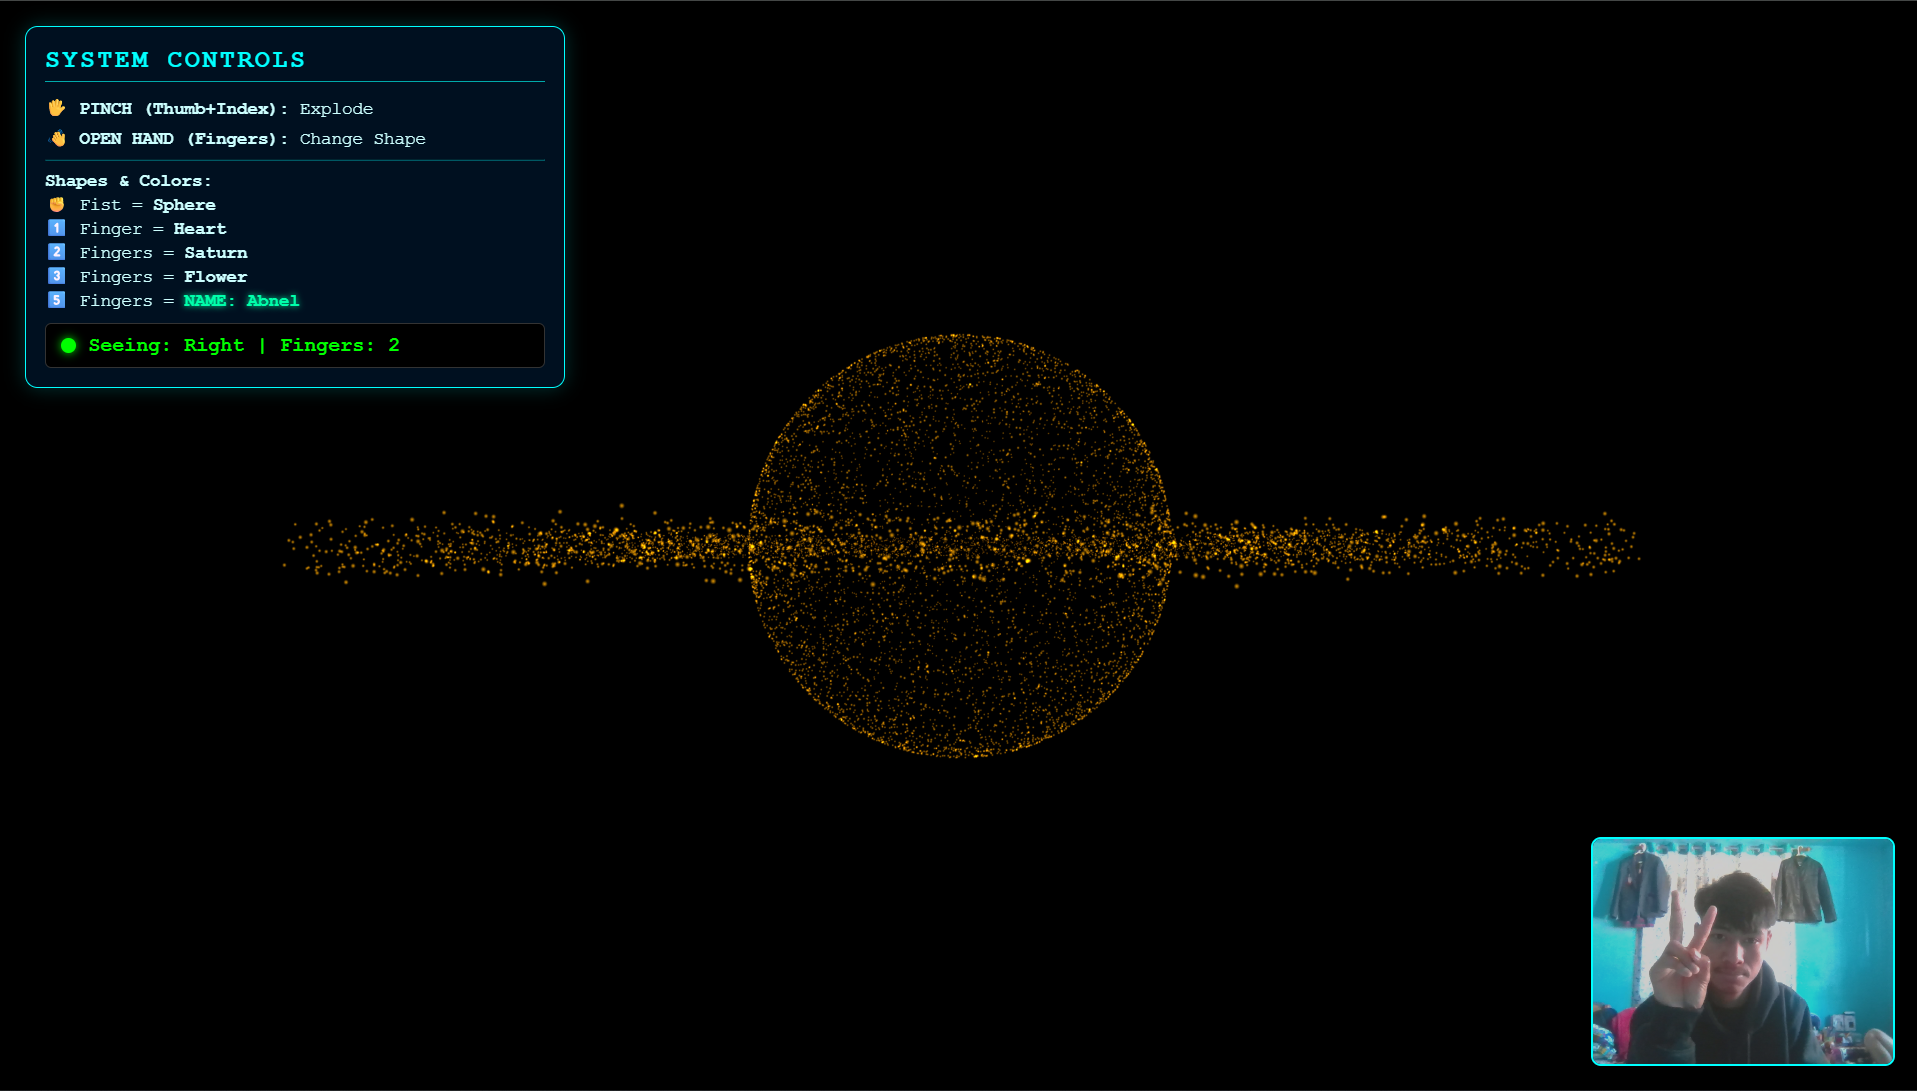
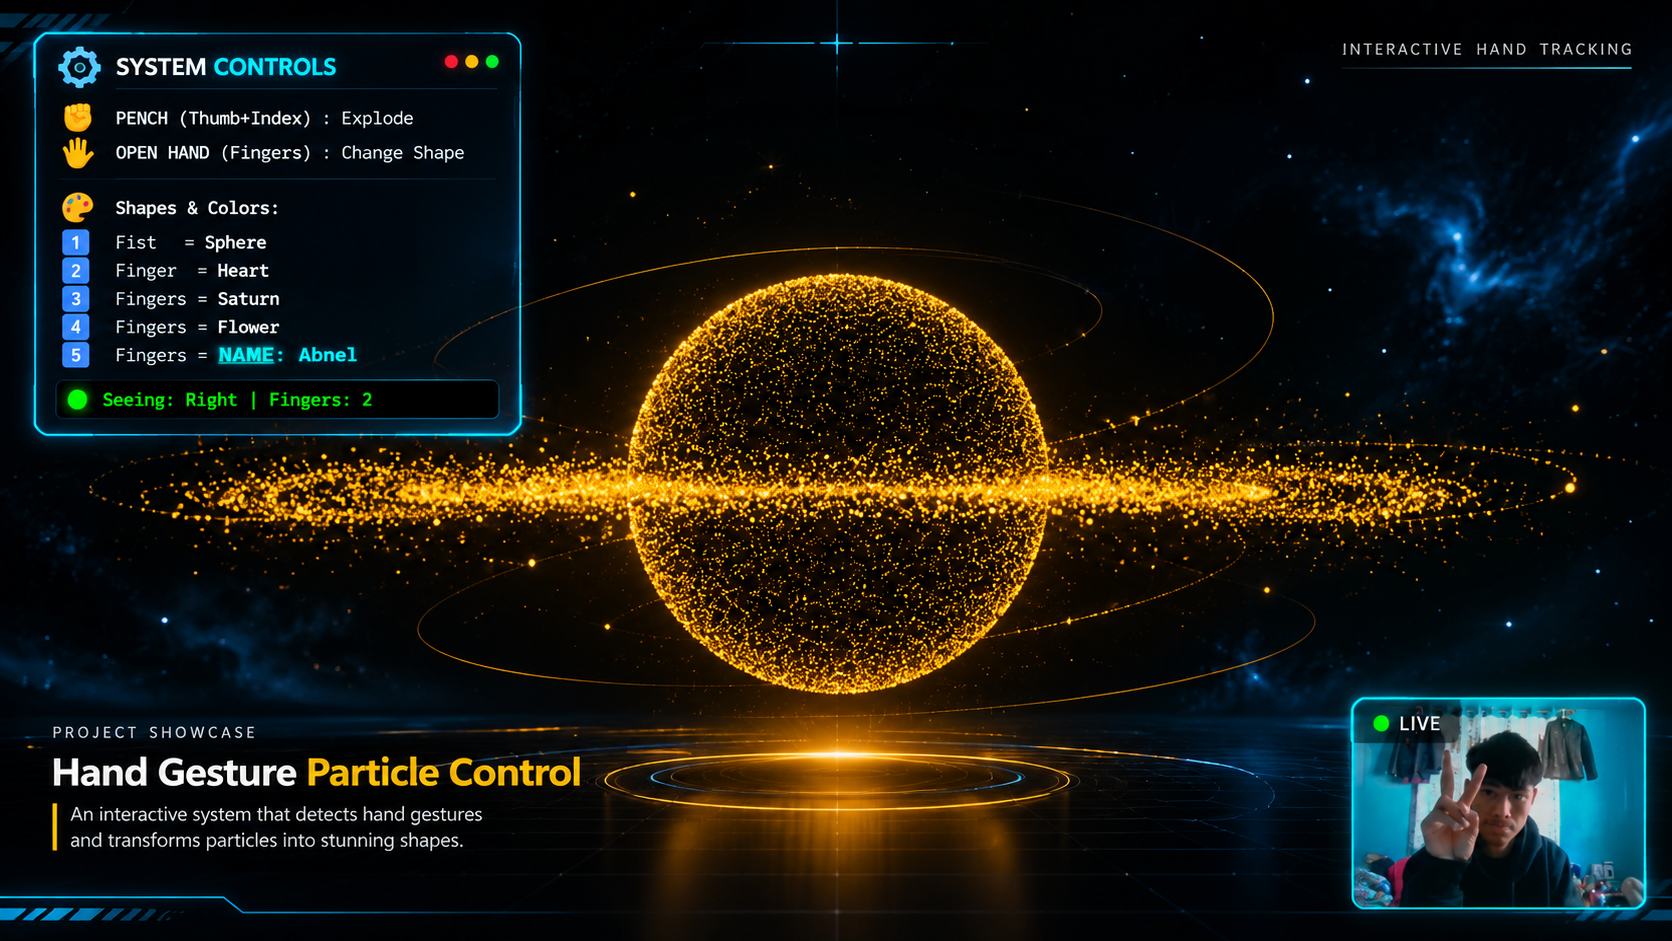
update portfolio code and thumbnails

diff --git a/src/data/portfolioData.ts b/src/data/portfolioData.ts
@@ -92,138 +92,76 @@ export const SOFTWARE_PROJECTS: SoftwareProject[] = [
       'Zero-latency spatial landmark tracking designed for interactive installations',
     ],
   },
-  {
-    id: 'chronos-analytics',
-    title: 'Chronos Telemetry Engine',
-    subtitle: 'Distributed real-time streaming & event architecture',
-    description: 'A high-throughput event ingestion and visual analytics platform. Engineered for seamless telemetry visualization, delta data compression, and responsive dashboard interfaces.',
-    category: 'Distributed Systems',
-    year: '2025',
-    tags: ['Next.js', 'TypeScript', 'Node.js', 'Redis', 'Tailwind'],
-    metrics: [
-      { label: 'Performance', value: 'Real-Time' },
-      { label: 'Throughput', value: 'High Scale' },
-      { label: 'Delivery', value: 'Edge' },
-    ],
-    liveUrl: '#',
-    githubUrl: 'https://github.com',
-    featuredImage: 'https://images.unsplash.com/photo-1518770660439-4636190af475?auto=format&fit=crop&w=1200&q=80',
-    architectureDetails: [
-      'Distributed event cluster streaming updates directly to client browsers',
-      'Microsecond delta calculations minimizing bandwidth and memory footprint',
-      'Clean editorial visual charts rendering hundreds of thousands of data points smoothly',
-    ],
-  },
-  {
-    id: 'kinesis-engine',
-    title: 'Kinesis Kinematic Analyzer',
-    subtitle: 'Athletic motion biomechanics & skeletal tracking',
-    description: 'Deep-learning assisted sports biomechanics analyzer. Calculates joint angle velocities and movement symmetry in real time using Python and skeletal point topology.',
-    category: 'Applied AI',
-    year: '2024',
-    tags: ['Python', 'PyTorch', 'MediaPipe', 'FastAPI', 'Three.js'],
-    metrics: [
-      { label: 'Precision', value: 'Exact' },
-      { label: 'Feedback', value: 'Live' },
-      { label: 'Inference', value: 'Smooth' },
-    ],
-    liveUrl: '#',
-    githubUrl: 'https://github.com',
-    featuredImage: 'https://images.unsplash.com/photo-1526374965328-7f61d4dc18c5?auto=format&fit=crop&w=1200&q=80',
-    architectureDetails: [
-      'Calculates joint velocity vectors across physical kinematic chains',
-      'Interactive 3D wireframe avatar overlay for immediate visual feedback',
-      'Asynchronous video processing pipeline built with FastAPI and WebSockets',
-    ],
-  },
-  {
-    id: 'monolith-commerce',
-    title: 'Monolith Editorial Commerce',
-    subtitle: 'High-speed headless commerce & fluid user experience',
-    description: 'A serene, high-performance shopping experience built for modern fashion and architectural brands. Crafted with micro-interactions, instant page loads, and zero layout shifts.',
-    category: 'Web Experience',
-    year: '2024',
-    tags: ['React', 'Next.js', 'PostgreSQL', 'Framer Motion'],
-    metrics: [
-      { label: 'Score', value: '100 / 100' },
-      { label: 'Experience', value: 'Fluid' },
-      { label: 'Conversion', value: 'Optimal' },
-    ],
-    liveUrl: '#',
-    githubUrl: 'https://github.com',
-    featuredImage: 'https://images.unsplash.com/photo-1558655146-d09347e92766?auto=format&fit=crop&w=1200&q=80',
-    architectureDetails: [
-      'Instant client pre-fetching yielding immediate transitions on click',
-      'Optimistic state reconciliation for cart and checkout pipelines',
-      'Minimalist editorial typography and breathing room throughout every view',
-    ],
-  },
 ];
 
 export const CREATIVE_PROJECTS: CreativeProject[] = [
   {
-    id: 'cyber-pulse-reel',
-    title: 'Pulse Showreel',
-    role: 'Lead Editor, Sound Designer & Colorist',
-    genre: 'Commercial & Motion',
-    year: '2025',
-    duration: '0:45',
-    bpm: 142,
-    cutRate: '0.4s',
-    tools: ['DaVinci Resolve Studio', 'After Effects', 'Pro Tools'],
-    description: 'A rhythm-driven visual piece featuring synchronized cuts locked to subtle audio transients, dynamic optical speedramps, and custom film-print emulation grading.',
-    videoPreviewUrl: 'https://assets.mixkit.co/videos/preview/mixkit-futuristic-city-street-with-neon-lights-at-night-42930-large.mp4',
-    thumbnail: 'https://images.unsplash.com/photo-1508739773434-c26b3d09e071?auto=format&fit=crop&w=1200&q=80',
-    highlightCuts: ['Match Cut', 'Speedramp', 'Audio Climax', 'Film Texture'],
-    colorPalette: ['#DC2626', '#0A0A0A', '#1E293B', '#FACC15'],
-  },
-  {
-    id: 'tokyo-drift-kinetic',
-    title: 'Nocturne Tokyo',
-    role: 'Director, Editor & Colorist',
-    genre: 'Cinematic Narrative',
-    year: '2024',
-    duration: '1:18',
+    id: 'portfolio-showreel',
+    title: 'Kinetic Portfolio Showreel',
+    role: 'Motion Designer, Editor & Sound Designer',
+    genre: 'Motion Graphics & UI Showcase',
+    year: '2026',
+    duration: '0:30', // adjust to your exact exported video length
     bpm: 128,
-    cutRate: '0.7s',
-    tools: ['Premiere Pro', 'After Effects', 'DaVinci Resolve'],
-    description: 'An atmospheric study of nocturnal movement. Subtle 16mm film textures combined with camera projections, balanced chromatic sweeps, and layered environmental soundscapes.',
-    videoPreviewUrl: 'https://assets.mixkit.co/videos/preview/mixkit-car-driving-through-a-city-at-night-4158-large.mp4',
-    thumbnail: 'https://images.unsplash.com/photo-1509198397868-475647b2a1e5?auto=format&fit=crop&w=1200&q=80',
-    highlightCuts: ['Spatial Cut', 'Optical Flow', 'Subtle Tone Shift'],
-    colorPalette: ['#DC2626', '#0284C7', '#111827', '#F3F4F6'],
+    cutRate: '0.5s',
+    tools: ['After Effects', 'DaVinci Resolve'],
+    description:
+      'A high-frame-rate 60fps 1080p portfolio showreel crafted with custom keyframe animations, kinetic typography, and seamless click-triggered UI transitions. Finished with crisp sound design layering and clean visual pacing.',
+    videoPreviewUrl: './portfolio-reel.mp4', // drop your exported MP4 into public/
+    thumbnail: './portfolio-reel-thumb.png', // drop a cover frame into public/
+    highlightCuts: ['Keyframe Motion', 'UI Transitions', 'Kinetic Type', 'SFX Sync'],
+    colorPalette: ['#DC2626', '#0A0A0A', '#FFFFFF', '#1E293B'],
   },
   {
-    id: 'hyper-drive-commercial',
-    title: 'Hyperdrive Fashion Promo',
-    role: 'Motion Designer & Editor',
-    genre: 'Editorial & Fashion',
-    year: '2024',
-    duration: '0:30',
-    bpm: 156,
+    id: 'kinetic-typography-reel',
+    title: 'Kinetic Typography Reel',
+    role: 'Video Editor & Motion Designer',
+    genre: 'Short-Form & Typography',
+    year: '2026',
+    duration: '0:25', // adjust to your exact video length
+    bpm: 135,
     cutRate: '0.35s',
-    tools: ['After Effects', 'Blender', 'DaVinci Resolve'],
-    description: 'Kinetic edits tailored for visual fashion. 3D simulation elements integrated with live footage, delicate typography stamps, and calming balanced framing.',
-    videoPreviewUrl: 'https://assets.mixkit.co/videos/preview/mixkit-portrait-of-a-fashion-model-with-silver-makeup-40118-large.mp4',
-    thumbnail: 'https://images.unsplash.com/photo-1515886657613-9f3515b0c78f?auto=format&fit=crop&w=1200&q=80',
-    highlightCuts: ['Typography Motion', 'Soft Freeze-frame', 'Zoom Cadence'],
-    colorPalette: ['#DC2626', '#111111', '#FFFFFF', '#6B7280'],
+    tools: ['CapCut'],
+    description:
+      'A fast-paced, beat-synced kinetic typography reel built for high retention. Combines bold text animations, custom keyframe graphs, punchy speed ramps, and layered sound effects.',
+    videoPreviewUrl: './typography-reel.mp4', // drop your exported MP4 into public/
+    thumbnail: './typography-thumb.png', // drop a cover frame into public/
+    highlightCuts: ['Beat Sync', 'Text Keyframes', 'Speed Ramps', 'SFX Hits'],
+    colorPalette: ['#DC2626', '#0A0A0A', '#FFFFFF', '#FACC15'],
   },
   {
-    id: 'sound-sculpt-documentary',
-    title: 'Sub-Harmonic Archive',
-    role: 'Documentary Editor & Sound Engineer',
-    genre: 'Documentary Short',
-    year: '2024',
-    duration: '2:45',
-    bpm: 96,
-    cutRate: '1.2s',
-    tools: ['DaVinci Resolve', 'Logic Pro', 'iZotope RX'],
-    description: 'A deep narrative journey into analog synthesizer craftsmanship. Deliberate, contemplative camera movements paired with warm analog soundscapes and crisp audio restoration.',
-    videoPreviewUrl: 'https://assets.mixkit.co/videos/preview/mixkit-sound-board-in-a-recording-studio-41772-large.mp4',
-    thumbnail: 'https://images.unsplash.com/photo-1598488035139-bdbb2231ce04?auto=format&fit=crop&w=1200&q=80',
-    highlightCuts: ['Frequency Transition', 'Split Screen', 'Audio Crossfade'],
-    colorPalette: ['#111111', '#DC2626', '#D97706', '#E5E7EB'],
+    id: 'client-commercial-reel',
+    title: 'Client Commercial Reel', // replace with the brand/client name if allowed
+    role: 'Lead Video Editor',
+    genre: 'Paid Client Work (9:16)',
+    year: '2026',
+    duration: '0:30', // adjust to your exact video length
+    bpm: 130,
+    cutRate: '0.4s',
+    tools: ['CapCut', 'After Effects'], // update to the tools you used
+    description:
+      'A high-retention vertical (9:16) edit produced for a paid client campaign. Engineered with hook-first pacing, clean dynamic captions, smooth transitions, and punchy sound design tailored for Instagram Reels and Shorts.',
+    videoPreviewUrl: './paid-reel.mp4', // drop your exported MP4 into public/
+    thumbnail: './paid-reel-thumb.png', // drop a cover frame into public/
+    highlightCuts: ['Hook Pacing', '9:16 Vertical', 'Dynamic Captions', 'SFX Layering'],
+    colorPalette: ['#DC2626', '#0A0A0A', '#FFFFFF', '#6B7280'],
+  },
+  {
+    id: 'paid-motion-graph-reel',
+    title: 'Dynamic Motion & SFX Reel', // replace with the client/project name if you'd like
+    role: 'Video Editor & Motion Designer',
+    genre: 'Paid Client Work (9:16)',
+    year: '2026',
+    duration: '0:30', // adjust to your exact video length
+    bpm: 132,
+    cutRate: '0.4s',
+    tools: ['CapCut', 'DaVinci Resolve'], // update to the exact tools you used
+    description:
+      'A paid vertical reel built with custom speed and keyframe graphs, smooth UI/motion animations, and layered sound effects. Engineered for fluid pacing and high viewer retention from the first frame.',
+    videoPreviewUrl: './paid-reel-2.mp4', // drop your exported MP4 into public/
+    thumbnail: './paid-reel-2-thumb.png', // drop a cover frame into public/
+    highlightCuts: ['Speed Graphs', 'Custom Animations', 'SFX Layering', '9:16 Vertical'],
+    colorPalette: ['#DC2626', '#0A0A0A', '#FFFFFF', '#FACC15'],
   },
 ];
 

diff --git a/src/components/DualShowcase.tsx b/src/components/DualShowcase.tsx
@@ -326,11 +326,11 @@ const SoothingVideoCard: React.FC<SoothingVideoCardProps> = ({ video, index }) =
         </p>
 
         {/* Video Player Container */}
-        <div className="relative w-full aspect-video rounded-2xl bg-neutral-900 mb-8 overflow-hidden shadow-inner">
+        <div className="relative w-full aspect-video rounded-2xl bg-black mb-8 overflow-hidden shadow-inner">
           <img
             src={video.thumbnail}
             alt={video.title}
-            className={`absolute inset-0 w-full h-full object-cover transition-opacity duration-700 ${
+            className={`absolute inset-0 w-full h-full object-contain transition-opacity duration-700 ${
               isPlaying ? 'opacity-0' : 'opacity-100'
             }`}
           />
@@ -342,11 +342,10 @@ const SoothingVideoCard: React.FC<SoothingVideoCardProps> = ({ video, index }) =
             loop
             playsInline
             preload="metadata"
-            className={`w-full h-full object-cover transition-opacity duration-700 ${
+            className={`w-full h-full object-contain transition-opacity duration-700 ${
               isPlaying ? 'opacity-100' : 'opacity-0'
             }`}
           />
-
           {/* Hover Status Tag */}
           <div className="absolute top-4 left-4 bg-black/60 backdrop-blur-md text-white text-xs px-3 py-1.5 rounded-full flex items-center gap-1.5 font-medium">
             {isPlaying ? (
